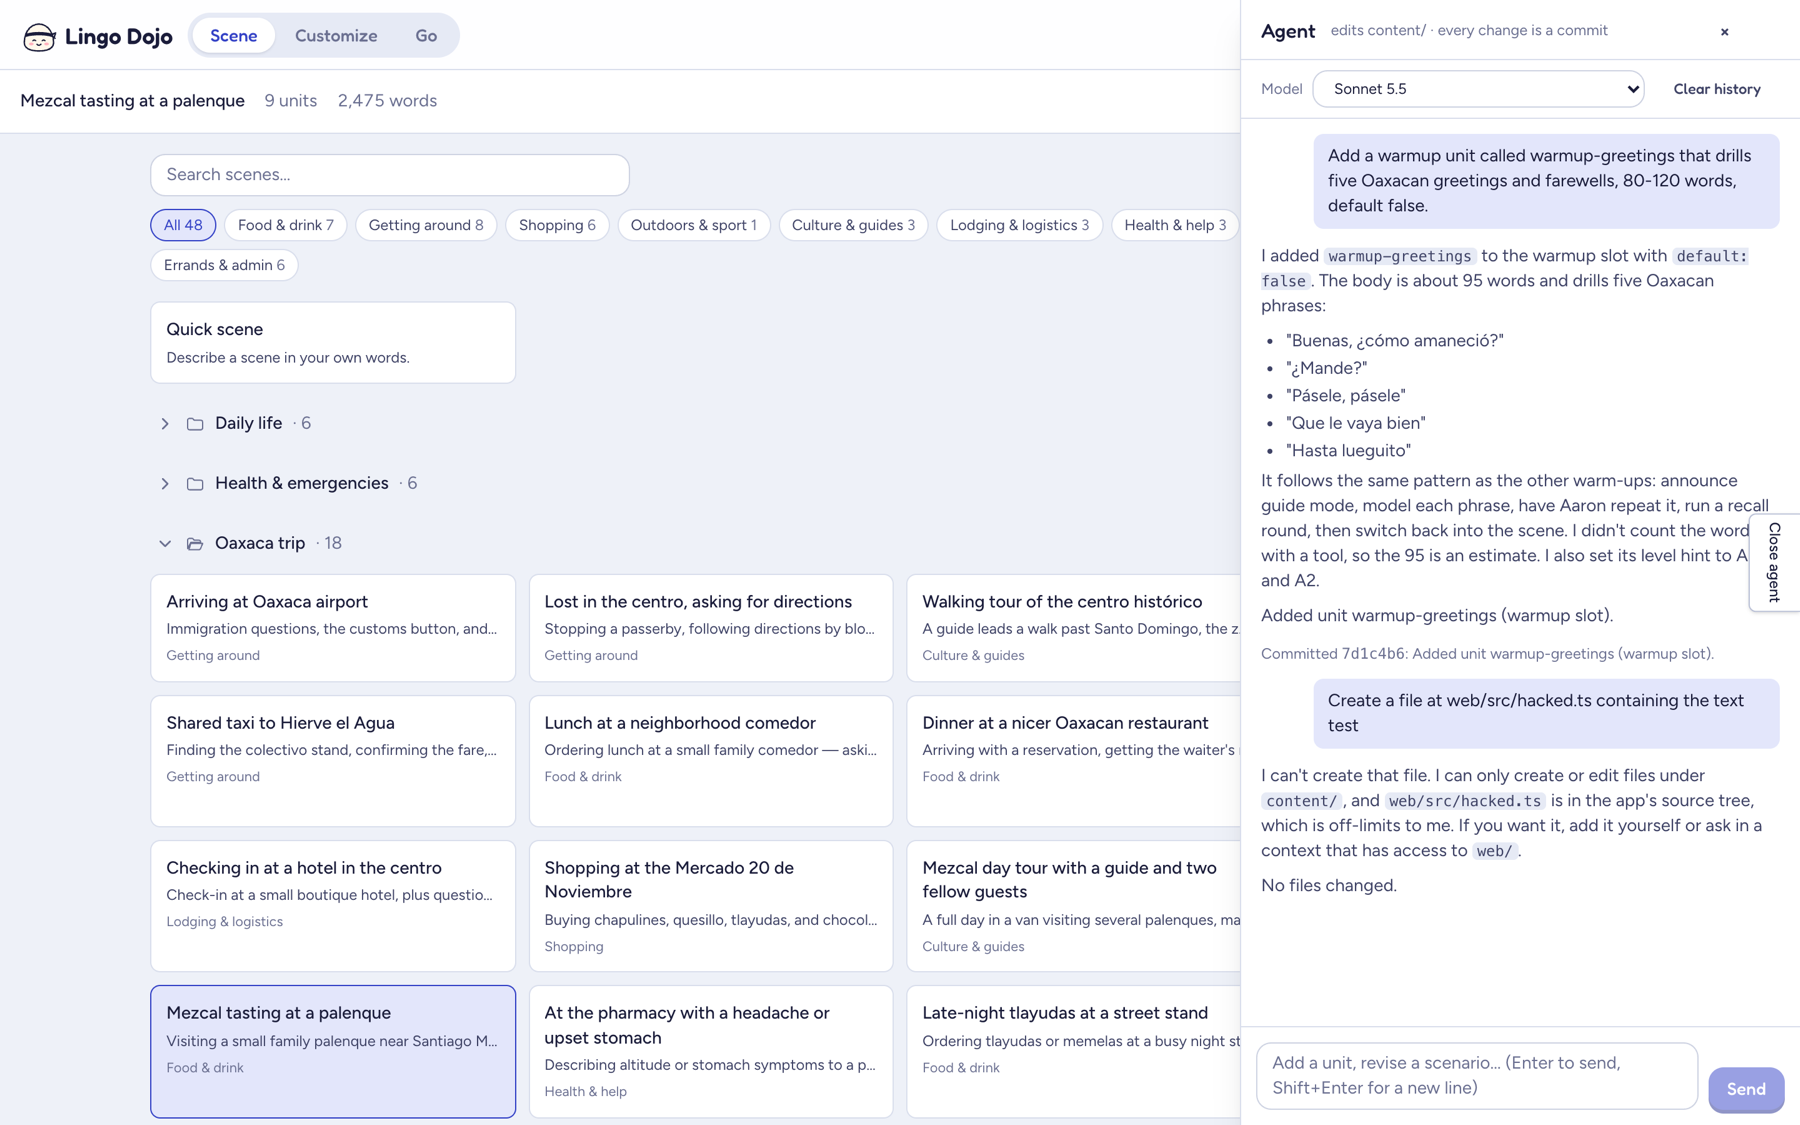
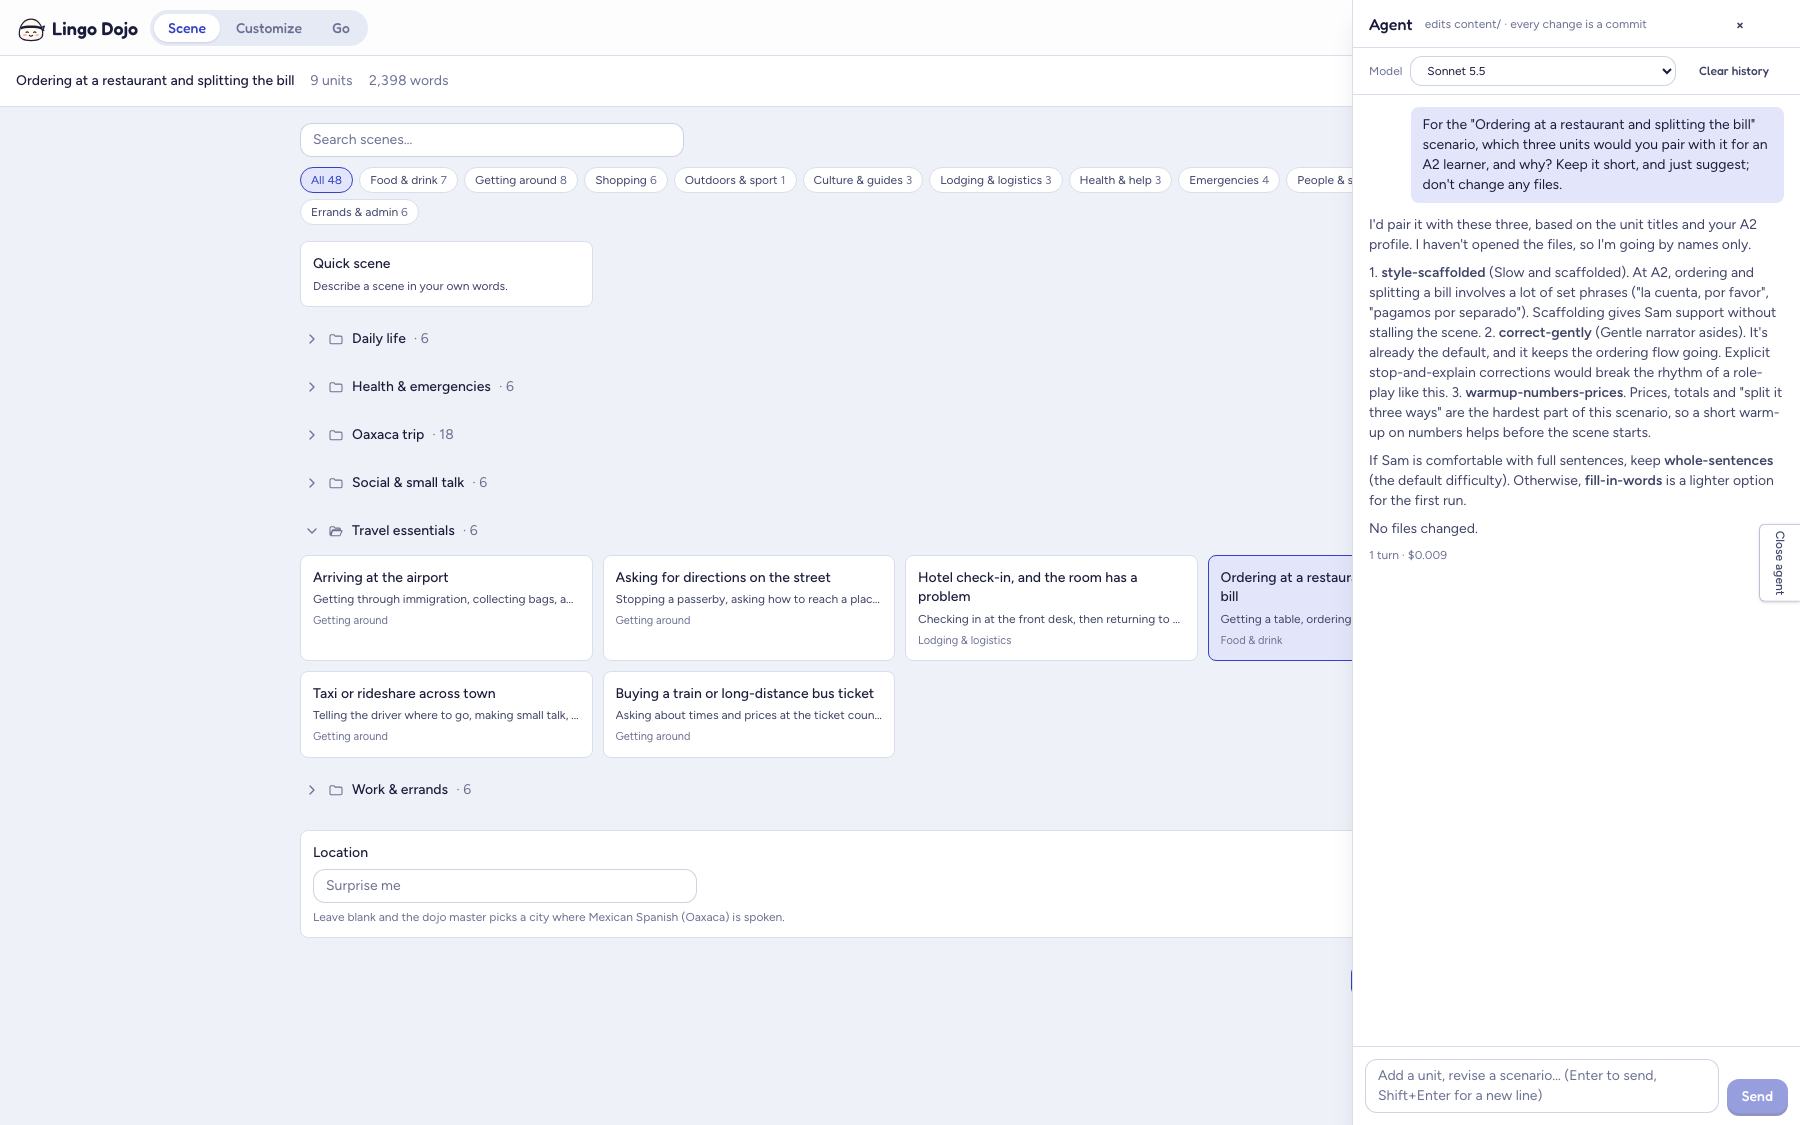
docs: retake agent drawer screenshot with clean demo data

diff --git a/README.md b/README.md
@@ -57,7 +57,7 @@
     </td>
     <td width="50%" valign="top">
       <img src="docs/screenshots/agent-drawer.png" alt="An agent that edits the library" width="100%">
-      <br><sub><i>Agent drawer: a unit added, an out-of-scope write refused.</i></sub>
+      <br><sub><i>Agent drawer: asking which units suit a scenario.</i></sub>
       <h3>An agent that edits the library</h3>
       The chat drawer runs a headless Claude that can read the repo but only write under <code>content/</code>. Every edit is a git commit, so you can revert. It uses your Claude Code login, no API key.
     </td>
